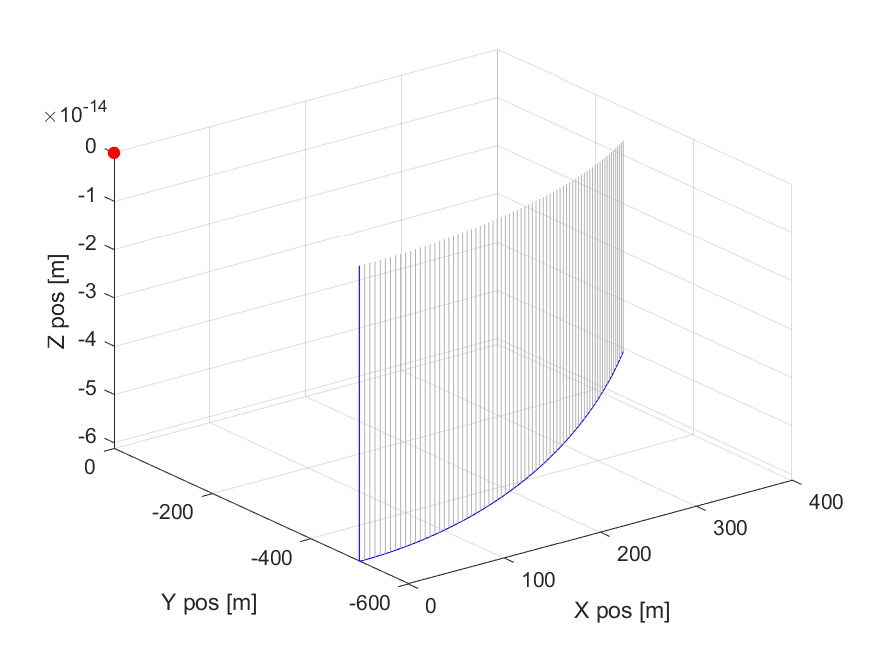
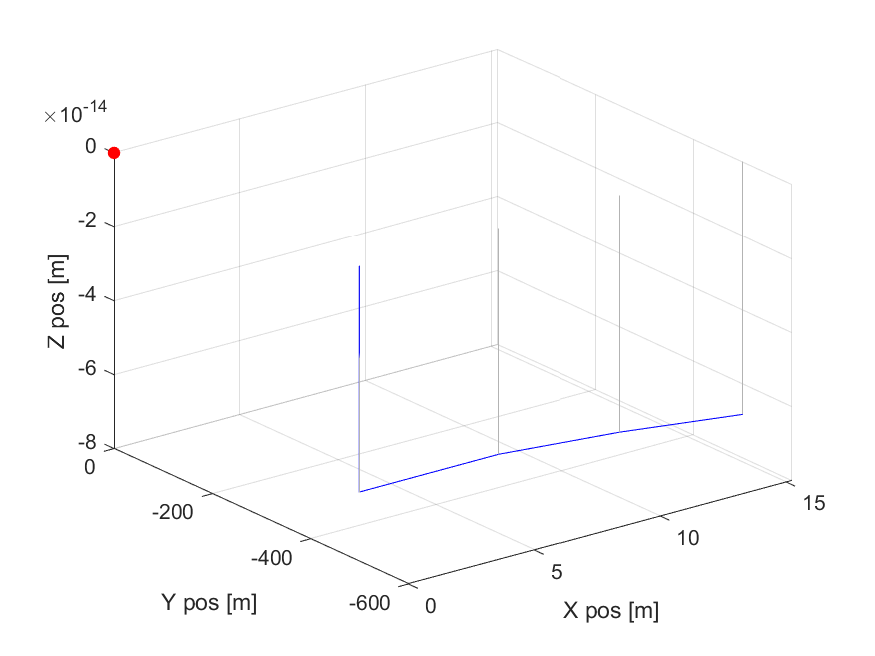
Added vel PID control

diff --git a/Controls/Control.m b/Controls/Control.m
@@ -18,14 +18,16 @@ function [control_force, control_memory_variable] = Control( ...
             control_memory_variable(1) = {[0 0 0]};
         end
         if strcmp('pos', control_mode)
+            disp("pos conrtrol")
             [control_force, ~] = SSPID(relative_state_chaser, desired_relative_state, mean_motion, mass, time_step, control_memory_variable);
         elseif strcmp('vel', control_mode)
+            disp("velocity conrtrol")
             [control_force, ~] = velSSPID(relative_state_chaser, desired_relative_state, mean_motion, mass, time_step, control_memory_variable);
         else
             error("Invalid control mode provided")
         end
     end
-    control_force(1,1) = -control_force(1,1);
+    
     % Convert control_force from row to column vector
     control_force = control_force';
 end

diff --git a/Controls/velSSPID.m b/Controls/velSSPID.m
@@ -3,7 +3,7 @@ function [F, T, control_memory_variable] = velSSPID(relative_state_initial, desi
 
 % Initialization of PID variables and constants
 relative_state = relative_state_initial;
-steps_per_run = 10; % nr of steps per chunk
+steps_per_run = 100; % nr of steps per chunk
 % Pterm = .08; % .8
 % Iterm = .0; % .08
 % Dterm = 1; % 2

diff --git a/Controls/LQR_3D.m b/Controls/LQR_3D.m
@@ -43,6 +43,6 @@ function [F, T] = LQR_3D(relative_state_chaser, desired_relative_state, time_ste
     
     % Total impulse
     acceleration_array = diff(y(:,4:6));
-    F = mass*acceleration_array;
+    F = mass*acceleration_array / time_step;
     T = [0 0 0];
 end
